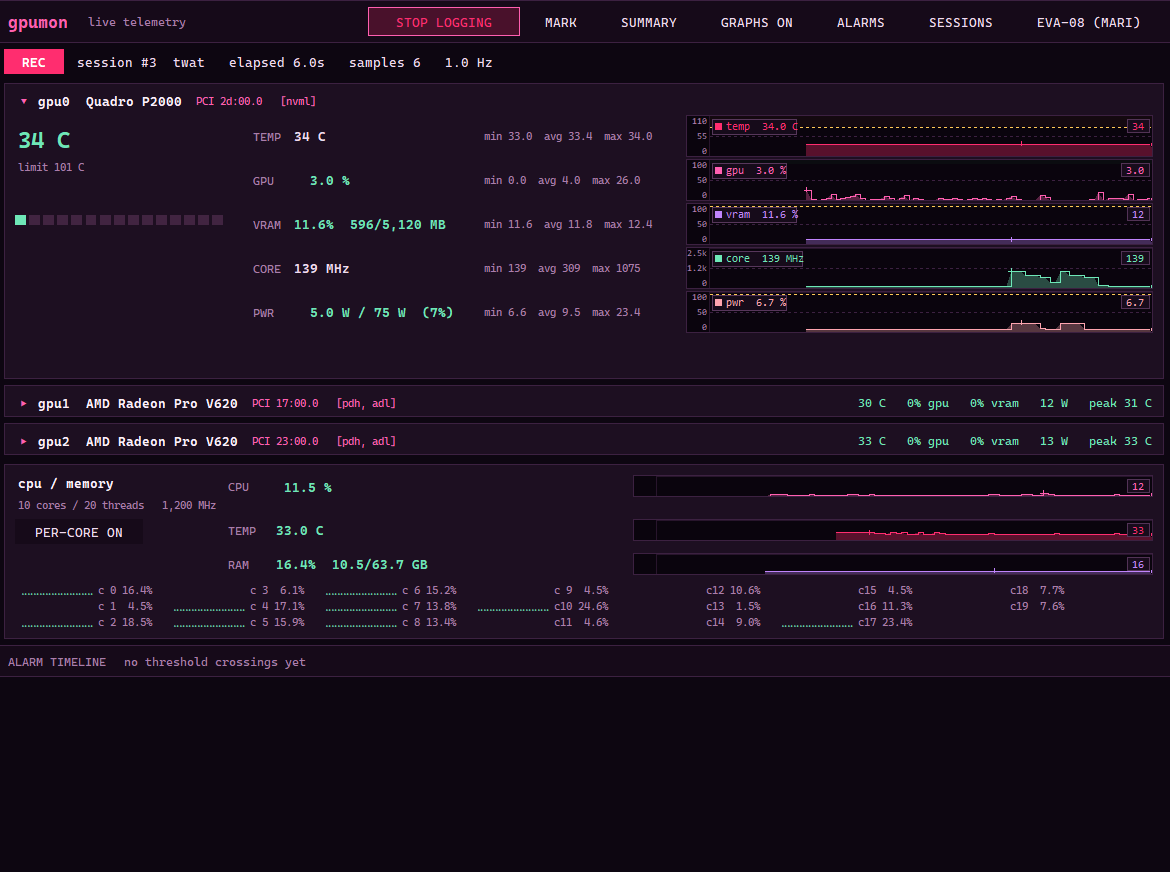
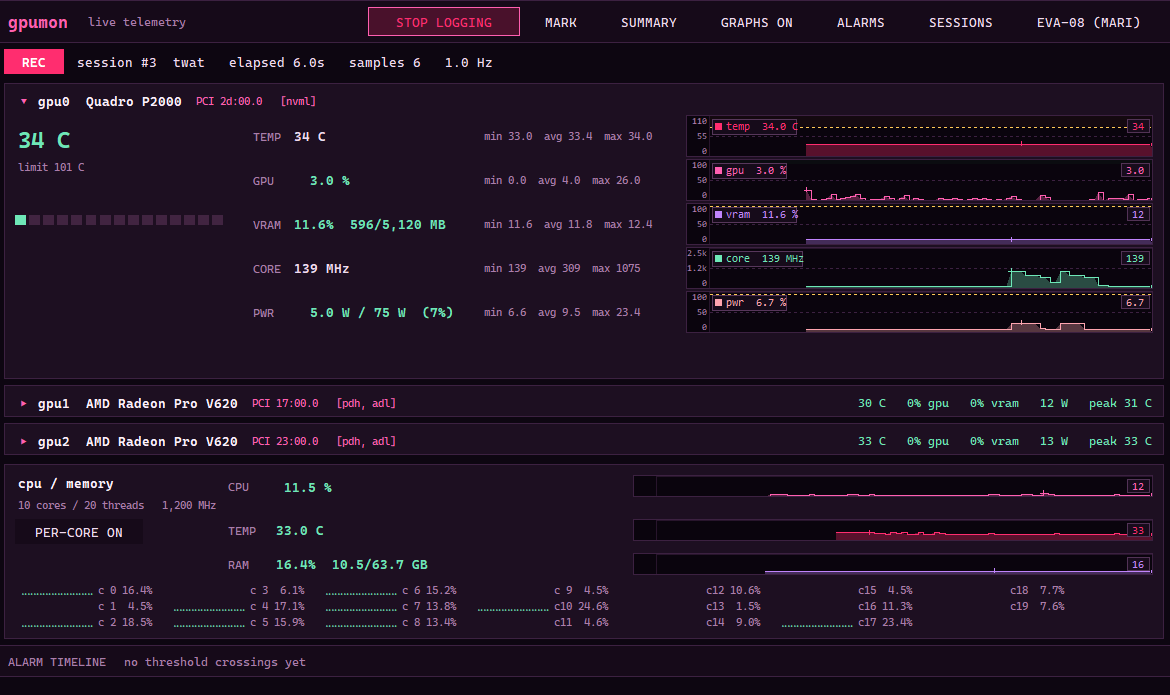
Give the gallery tiles one shape, and leave the captures alone
Padding every screenshot out to the tallest of the four made the tiles match but
left the windows inside them at different sizes, with empty background under two of
them. Two changes instead of one: the tiles are now built to the shape of the
summary, the middle of the four, which leaves 13% of background under the two short
captures and takes 76px of backdrop off the bottom of the alarm capture; and the
untouched captures stay where they are, behind the tiles, so clicking a picture
still opens the whole screenshot rather than the gallery version.

The alarm capture is trimmed only where the backdrop is. Its tab bar, its status
line and the entire dialog, buttons included, are still in the tile.

diff --git a/README.md b/README.md
@@ -1,13 +1,13 @@
 # gpumon
 
 <p align="center">
-  <a href="https://github.com/Dcoburn2/gpumon/raw/main/screenshots/monitor.png"><img src="screenshots/monitor.png" width="390" alt="Monitoring three graphics cards, the processor and system memory"></a>
-  <a href="https://github.com/Dcoburn2/gpumon/raw/main/screenshots/summary.png"><img src="screenshots/summary.png" width="390" alt="The session summary, with per-card statistics and CSV export"></a>
+  <a href="https://github.com/Dcoburn2/gpumon/raw/main/screenshots/monitor.png"><img src="screenshots/tiles/monitor.png" width="390" alt="Monitoring three graphics cards, the processor and system memory"></a>
+  <a href="https://github.com/Dcoburn2/gpumon/raw/main/screenshots/summary.png"><img src="screenshots/tiles/summary.png" width="390" alt="The session summary, with per-card statistics and CSV export"></a>
 </p>
 
 <p align="center">
-  <a href="https://github.com/Dcoburn2/gpumon/raw/main/screenshots/alarms.png"><img src="screenshots/alarms.png" width="390" alt="Alarm thresholds for every metric on every card"></a>
-  <a href="https://github.com/Dcoburn2/gpumon/raw/main/screenshots/sessions.png"><img src="screenshots/sessions.png" width="390" alt="Browsing logged sessions"></a>
+  <a href="https://github.com/Dcoburn2/gpumon/raw/main/screenshots/alarms.png"><img src="screenshots/tiles/alarms.png" width="390" alt="Alarm thresholds for every metric on every card"></a>
+  <a href="https://github.com/Dcoburn2/gpumon/raw/main/screenshots/sessions.png"><img src="screenshots/tiles/sessions.png" width="390" alt="Browsing logged sessions"></a>
 </p>
 
 **Windows 10/11, 64-bit. [Download the latest release](https://github.com/Dcoburn2/gpumon/releases/latest) — no installer, no Python, no drivers.**
